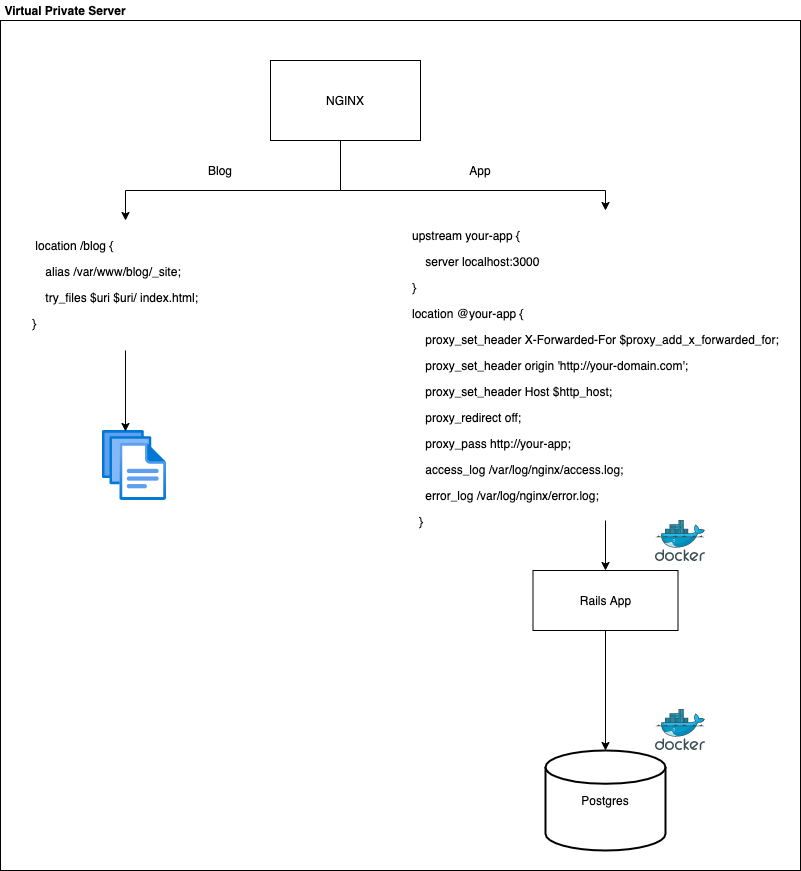
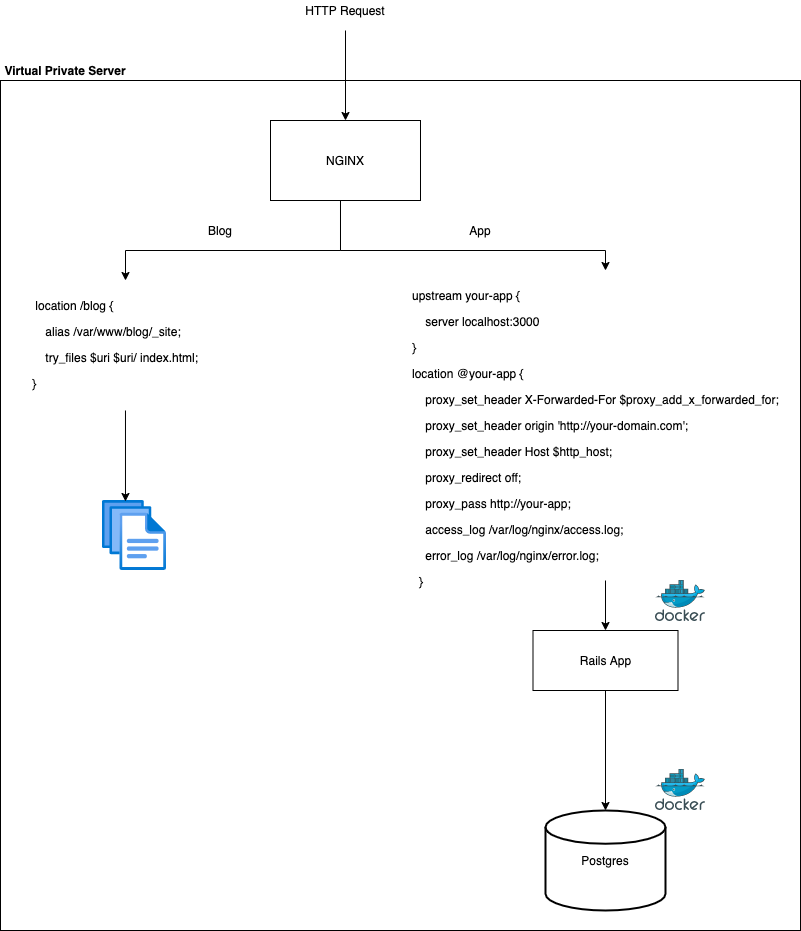
Publish how my site works

diff --git a/_posts/2021-03-06-how-my-site-works.md b/_posts/2021-03-06-how-my-site-works.md
@@ -1,0 +1,56 @@
+---
+layout: post
+title: How this Site Works
+date: 2021-03-06 16:53 -0600
+---
+One of my friend's dad was told me, when you're young you have energy and time and no money, middle aged you have money and energy but no time and when you're older money and time but no energy.
+
+With that in mind, diving into the system administration efforts for the site gave me pause, using higher level provider, like [Heroku](www.heroku.com), would save a significant amount of time for my middle aged, time lacking self. I oscillated on this a bit and decided that that added control and the learning experience would be a good time investment.
+
+Initially, I had pictured a single command deploying containers to a Virtual Private Server (VPS) in a few keystrokes of awesomeness. I plan to get there and I scaled back on the initial iteration. This post will share how that initial iteration works and we'll get that that awesome single command in the future. I have  a simple and safe workflow to deploy an application, an application I plan to simplify, and a couple simple commands to deploy the blog portion.
+
+At a high level, the request flows in the site look like:
+
+![HTTP Request Flow]({{site.url}}/blog/assets/diagrams/website_request_flow.png)
+
+The key tooling used:
+* [NGINX](https://nginx.org/en/)
+* [Docker](https://www.docker.com/)
+* [Docker Compose](https://github.com/docker/compose)
+* [Let's Encrypt](https://letsencrypt.org/)
+* [Jekyll](https://jekyllrb.com/)
+
+## NGINX
+NGINX is installed locally on the VPS and is used to accept incoming HTTP requests for my domain and NGINX routes requests   to the blog and the application. The VPS firewall needed to be configured to permit HTTP communication and Digital Ocean provides great documentation to set this up correctly. Here are two that are helpful:
+* https://www.digitalocean.com/community/tutorials/how-to-set-up-a-firewall-with-ufw-on-ubuntu-20-04
+* https://www.digitalocean.com/community/tutorials/how-to-install-nginx-on-ubuntu-18-04
+
+The setup for encryption with LetsEncrypt and NGINX running locally on the VPS was very simple using [Certbot](https://certbot.eff.org/lets-encrypt/ubuntufocal-nginx). Initially, I went down the path of using docker for each and use docker for my local dev with self signed certs but I opted for the simpler configuration on the VPS.
+
+With the firewall setup and the certs in place HTTPS Requests can arrive to NGINX. The requests with a route of  /blog go to the filesystem and get blog files. Other requests are proxied to the application that that is running in docker.
+
+The application has two sets of routes:
+1. to handle assets
+1. to handle app all other app requests
+
+This post provides more information on providing assets using NGINX.
+
+## Deploying the App
+Docker and docker-compose are used to the deploy the application. Application changes are built using docker-compose, tagged, sent to docker hub and than pulled from docker hub via a separate docker-compose script.
+
+The following steps are taken to deploy the blog and the application.
+1. Dev Machine: docker-compose build
+1. Dev Machine: docker tag app_name _docker_hub_user/app_name:incrementing_number_
+1. Dev Machine: docker push docker_hub_user/app_name:1
+1. VPS: Update app_name image tag to pull the latest
+1. VPS: docker pull _docker_hub_user/app_name:incrementing_number_
+1. VPS: docker-compose down
+1. VPS: docker-compose up -d
+
+##  Deploying the Blog
+After a blog post is written and reviewed the following done to deploy, Jekyll can generate the blog site locally for testing. The output from Jekyll are static html files
+1. jekyll -b
+1. scp the directory to the server - scp _site/ user@<vps_ip_address>:/var/www/blog
+
+## Summary
+The opportunity to work with NGINX, LetsEncrypt, docker and docker-compose was fun, most of the time, and it is rewarding to see the site load nearly instantly. Despite the time investment, a higher level container or app solution is still appealing. As of now, the plan is to iterate the current setup and arrive at that single command awesomeness.
